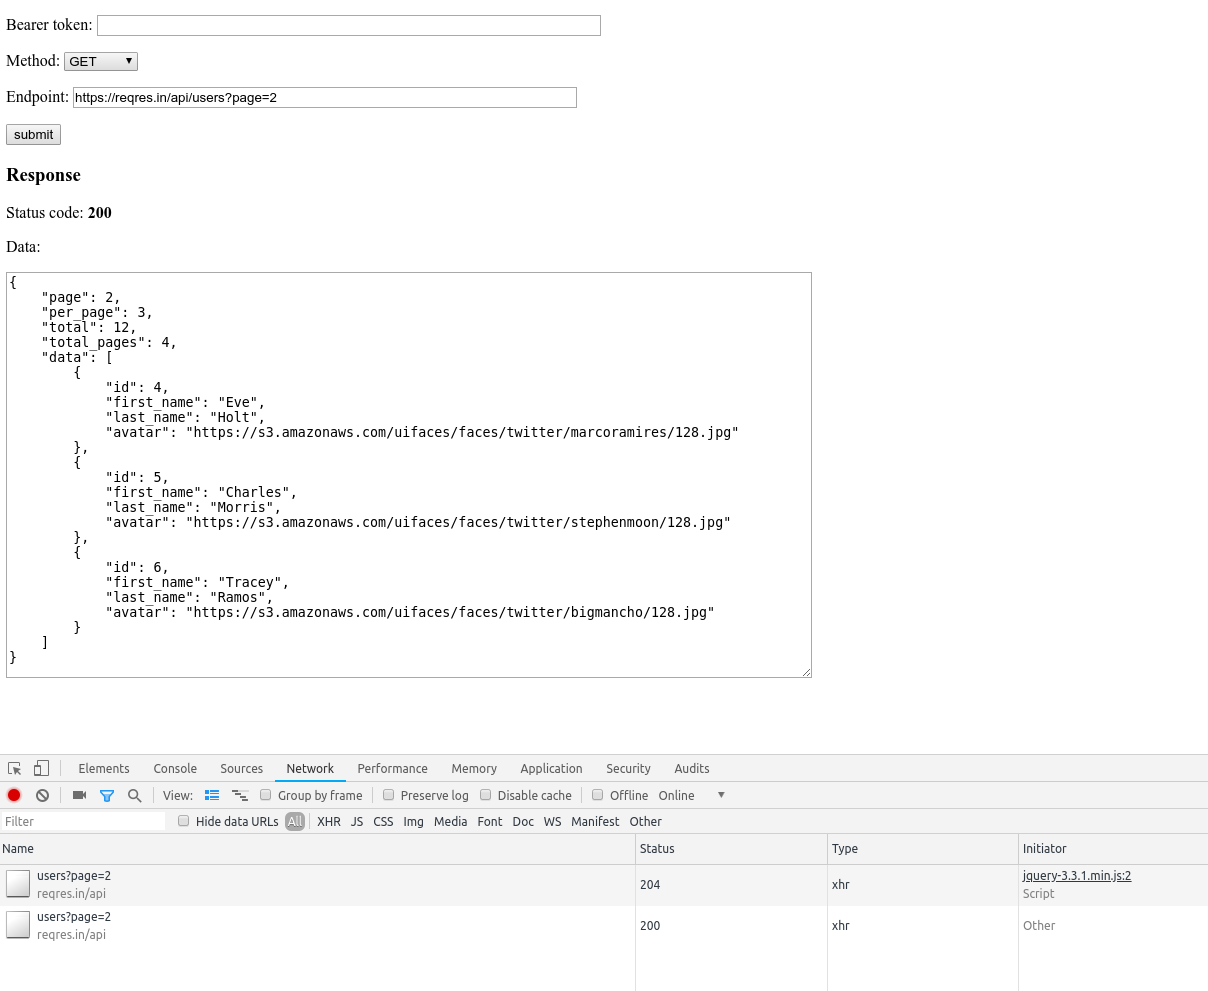
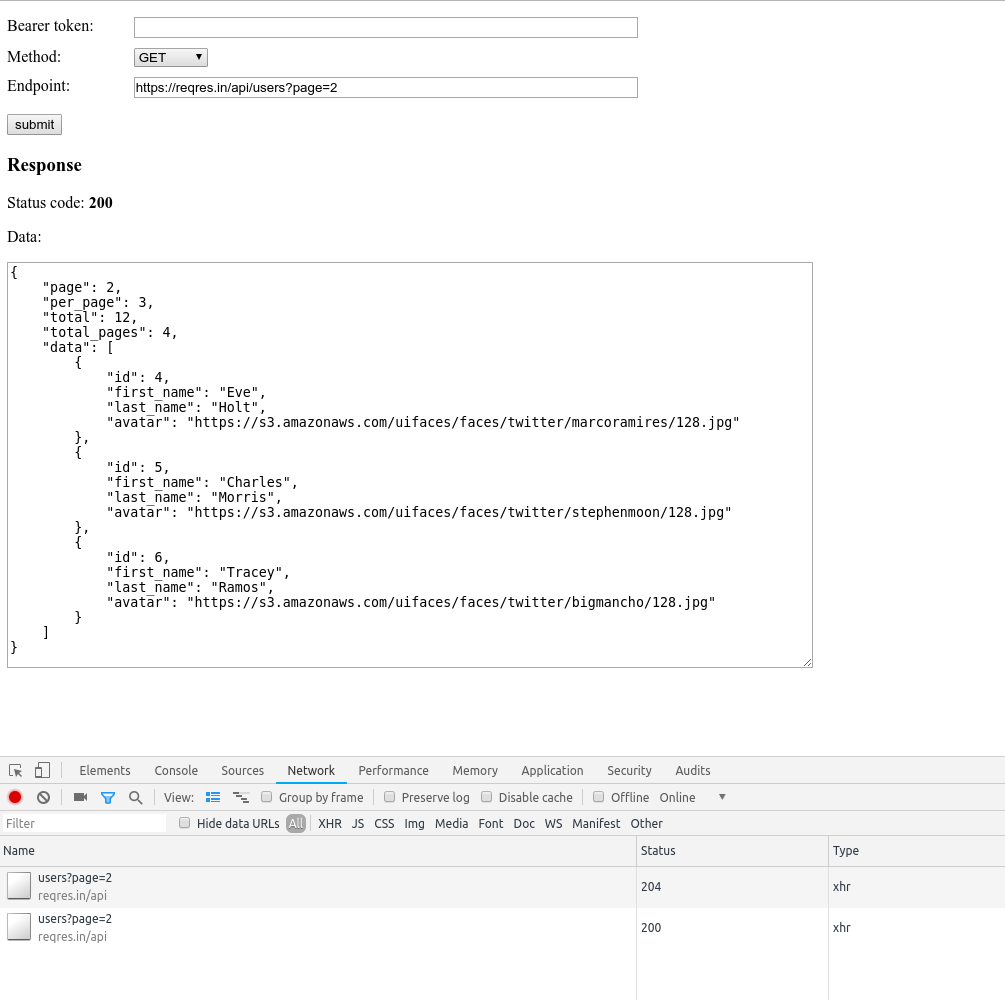
Updated copy and better format of form.

diff --git a/cors-test.html b/cors-test.html
@@ -13,6 +13,19 @@
             #status-code {
                 font-weight: bold;
             }
+            dl {
+                  display: grid;
+                  grid-template-columns: max-content auto;
+                  row-gap: 10px;
+            }
+
+            dt {
+                  grid-column-start: 1;
+            }
+
+            dd {
+                  grid-column-start: 2;
+            }
         </style>
         <script src="https://code.jquery.com/jquery-3.3.1.min.js"></script>
         <script>
@@ -54,23 +67,23 @@
 
     <body>
         <form id="cors-form">
-            <p>
-                Bearer token: 
-                <input type="text" id="bearer_token" style="width:500px" />
-            </p>
-            <p>
-                Method: 
-                <select id="method">
-                    <option>GET</option>
-                    <option>POST</option>
-                    <option>PATCH</option>
-                    <option>DELETE</option>
-                </select>
-            </p>
-            <p>
-                Endpoint: 
-                <input type="text" id="endpoint" value="https://reqres.in/api/users?page=2" style="width:500px" />
-            </p>
+            <dl>
+                <dt>Bearer token:</dt>
+                <dd><input type="text" id="bearer_token" style="width:500px" /></dd>
+                
+                <dt>Method:</dt>
+                <dd><select id="method">
+                        <option>GET</option>
+                        <option>POST</option>
+                        <option>PATCH</option>
+                        <option>DELETE</option>
+                    </select>
+                </dd>
+
+                <dt>Endpoint:</dt>
+                <dd><input type="text" id="endpoint" value="https://reqres.in/api/users?page=2" style="width:500px" /></dd>
+            </dl>
+            
             <p>
                 <input type="submit" name="submit" value="submit" />
             </p>

diff --git a/README.md b/README.md
@@ -1,4 +1,4 @@
-CORS Test Page.
+CORS Test Page
 ===============
 
 This is a single page script that was designed to test and debug CORS related issues in a standalone environment. CORS debugging can be tricky so this little tool is can be used to isolate any concerns. 
